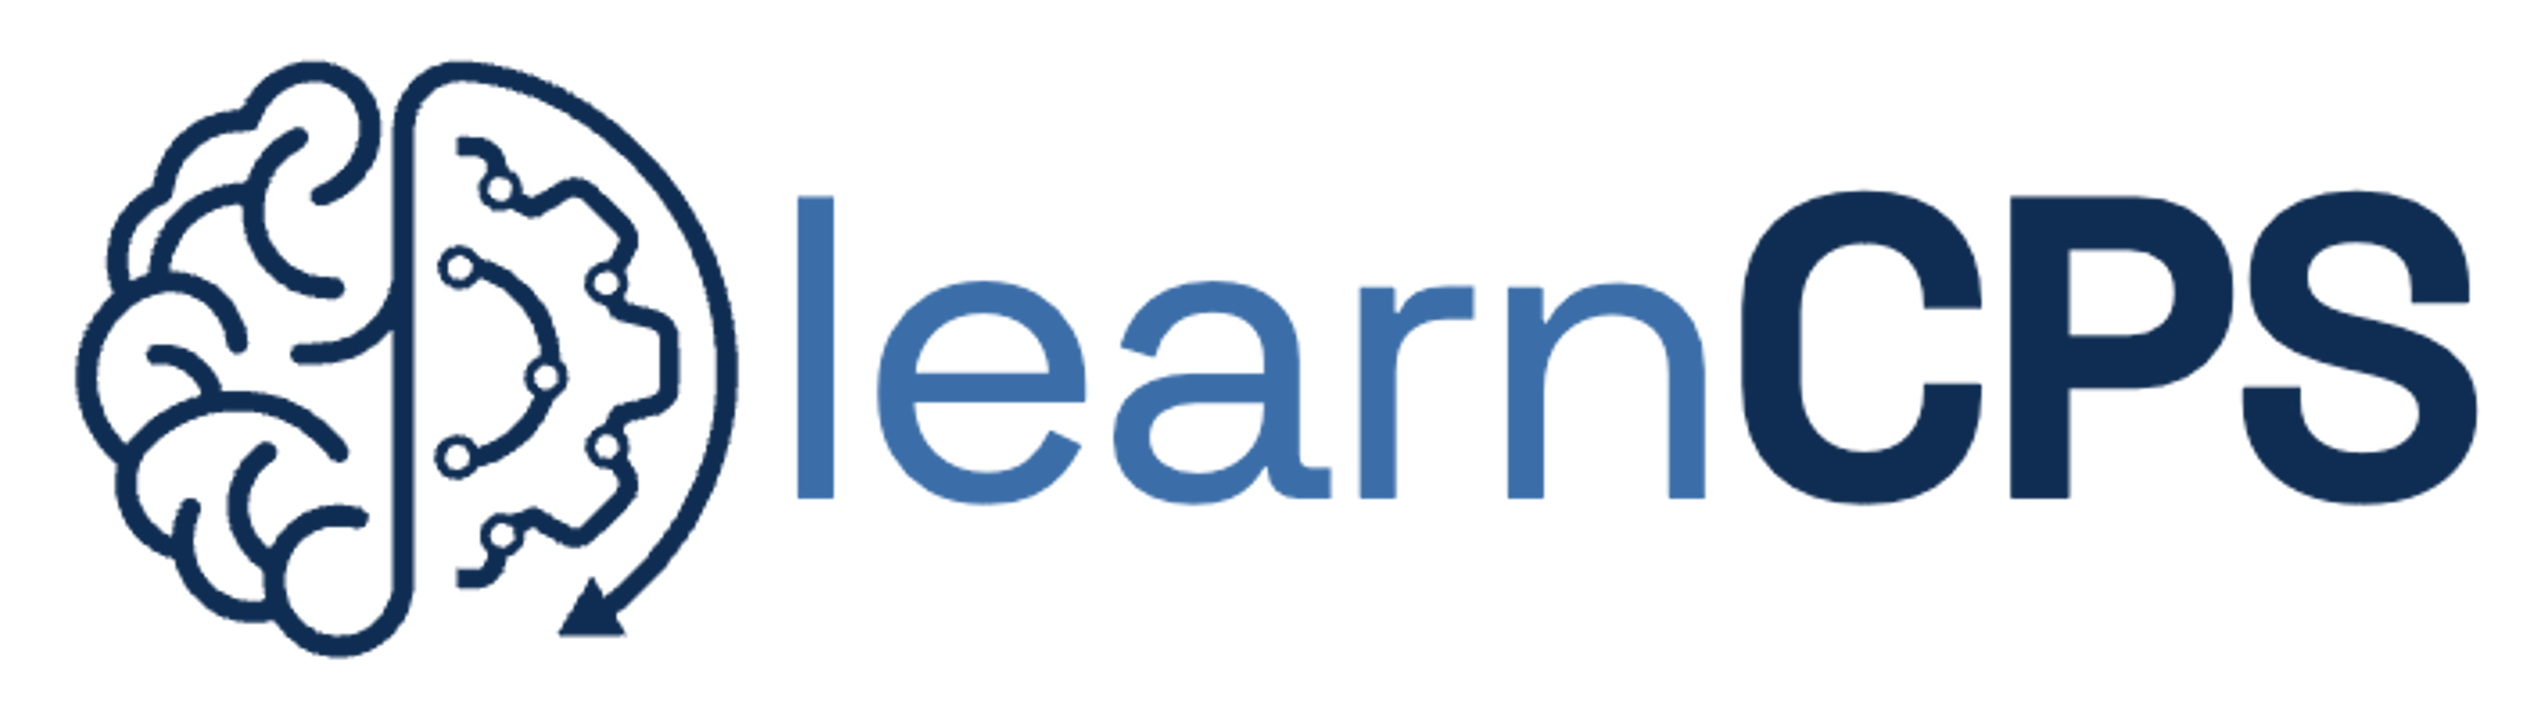
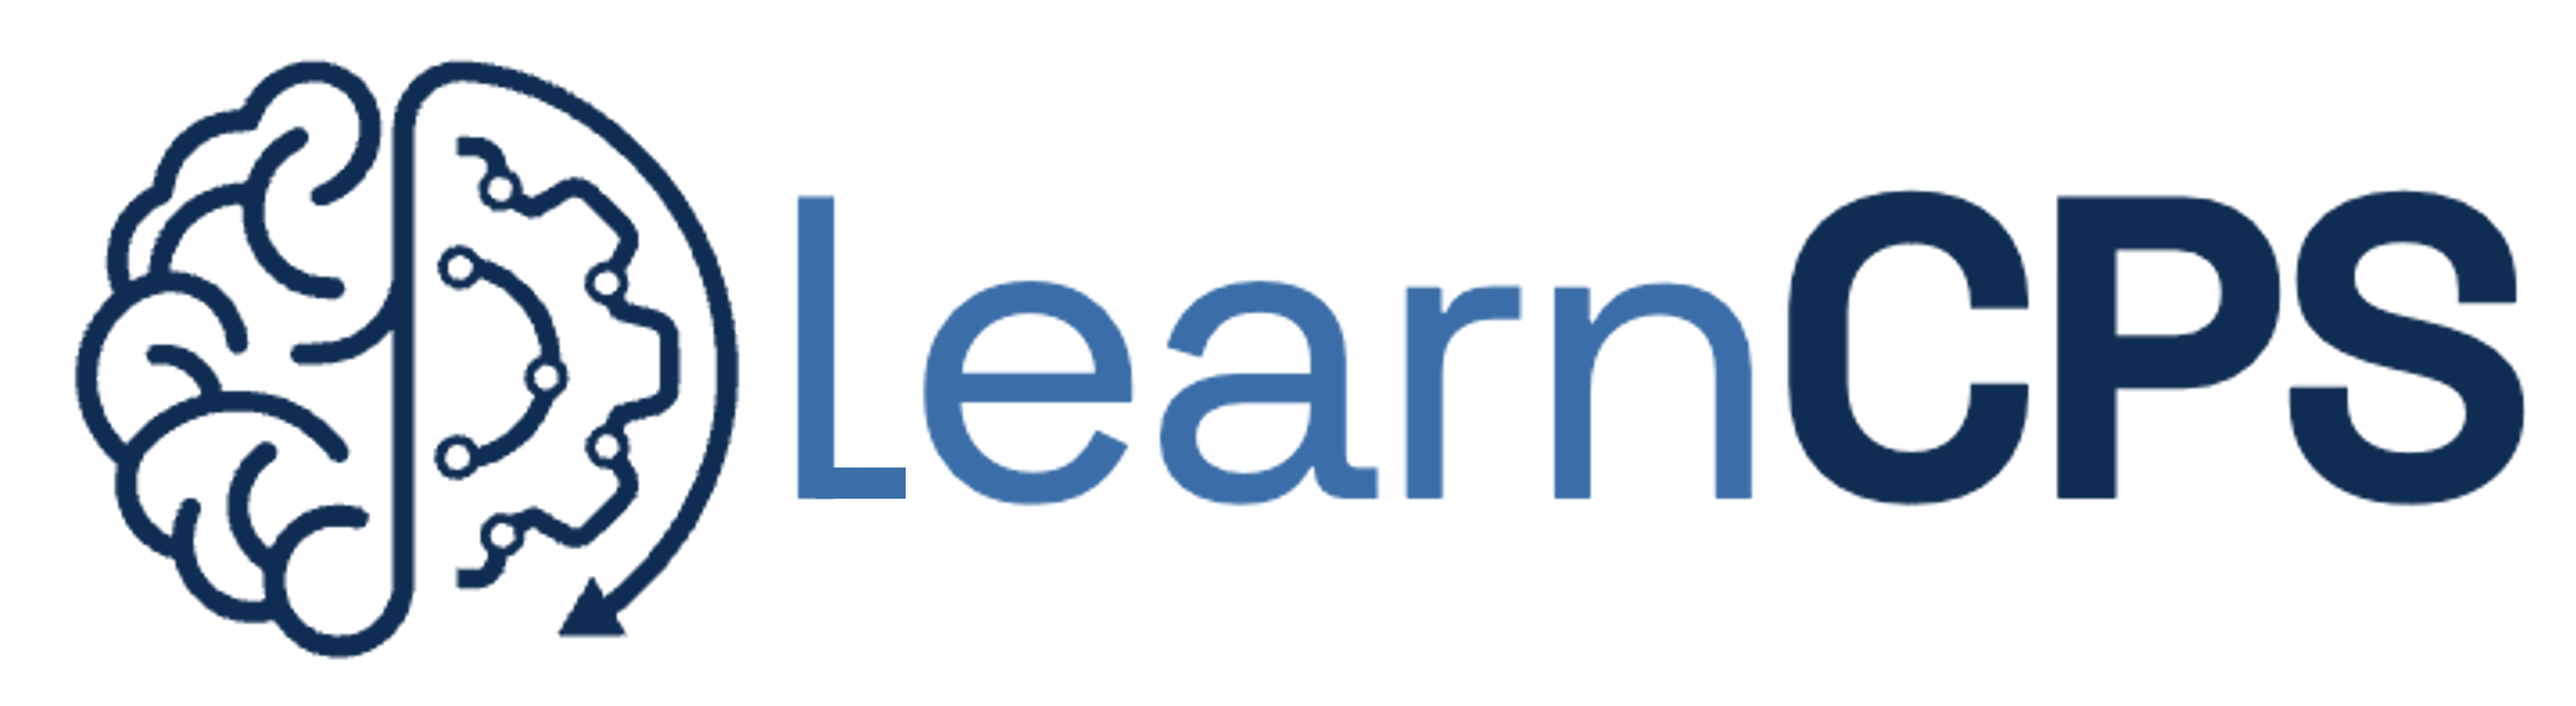
Updates

diff --git a/_pages/about.md b/_pages/about.md
@@ -36,7 +36,7 @@ social: true  # includes social icons at the bottom of the page
 <p style="text-align: justify;">
 <!-- Postdoc at KTH Royal Institute of Technology, Stockholm, working with Prof.
 <a target="_blank" rel="noopener noreferrer" href="https://people.kth.se/~kallej/"> Karl Henrik Johansson</a>. -->
-I am an Assistant Professor at <a target="_blank" rel="noopener noreferrer" href="https://informatics.tuwien.ac.at/orgs/e191-01">TU Wien Informatics</a> where I lead the <a href="{{ '/learncps/' }}"><span class="learncps-wordmark"><span class="learn">learn</span><span class="cps">CPS</span></span></a> lab. We bring together learning, optimization, and control theory to study and develop intelligent and interacting Cyber-Physical-Human Systems.
+I am an Assistant Professor at <a target="_blank" rel="noopener noreferrer" href="https://informatics.tuwien.ac.at/orgs/e191-01">TU Wien Informatics</a> where I lead the <a href="{{ '/learncps/' }}"><span class="learncps-wordmark"><span class="learn">Learn</span><span class="cps">CPS</span></span></a> lab. We bring together learning, optimization, and control theory to study and develop intelligent and interacting Cyber-Physical-Human Systems.
 </p>
 <p style="text-align: justify;">
 I received my Diploma in Electrical and Computer Engineering from the National Technical University of Athens, Greece, where I worked on neuro-robotics and human-robot interaction with Prof.

diff --git a/_pages/learncps.md b/_pages/learncps.md
@@ -18,7 +18,7 @@ nav_logo_dark: /assets/img/learnCPS-full-night-transparent.png
 
 
 <p style="text-align: justify;">
-At <span class="learncps-wordmark"><span class="learn">learn</span><span class="cps">CPS</span></span>, 
+At <span class="learncps-wordmark"><span class="Learn">learn</span><span class="cps">CPS</span></span>, 
 <!-- at <a target="_blank" rel="noopener noreferrer" href="https://informatics.tuwien.ac.at/orgs/e191-01">TU Wien Informatics</a>,  -->
 we bring together learning, optimization, and control theory to study intelligent Cyber-Physical-Human Systems.
 </p>
